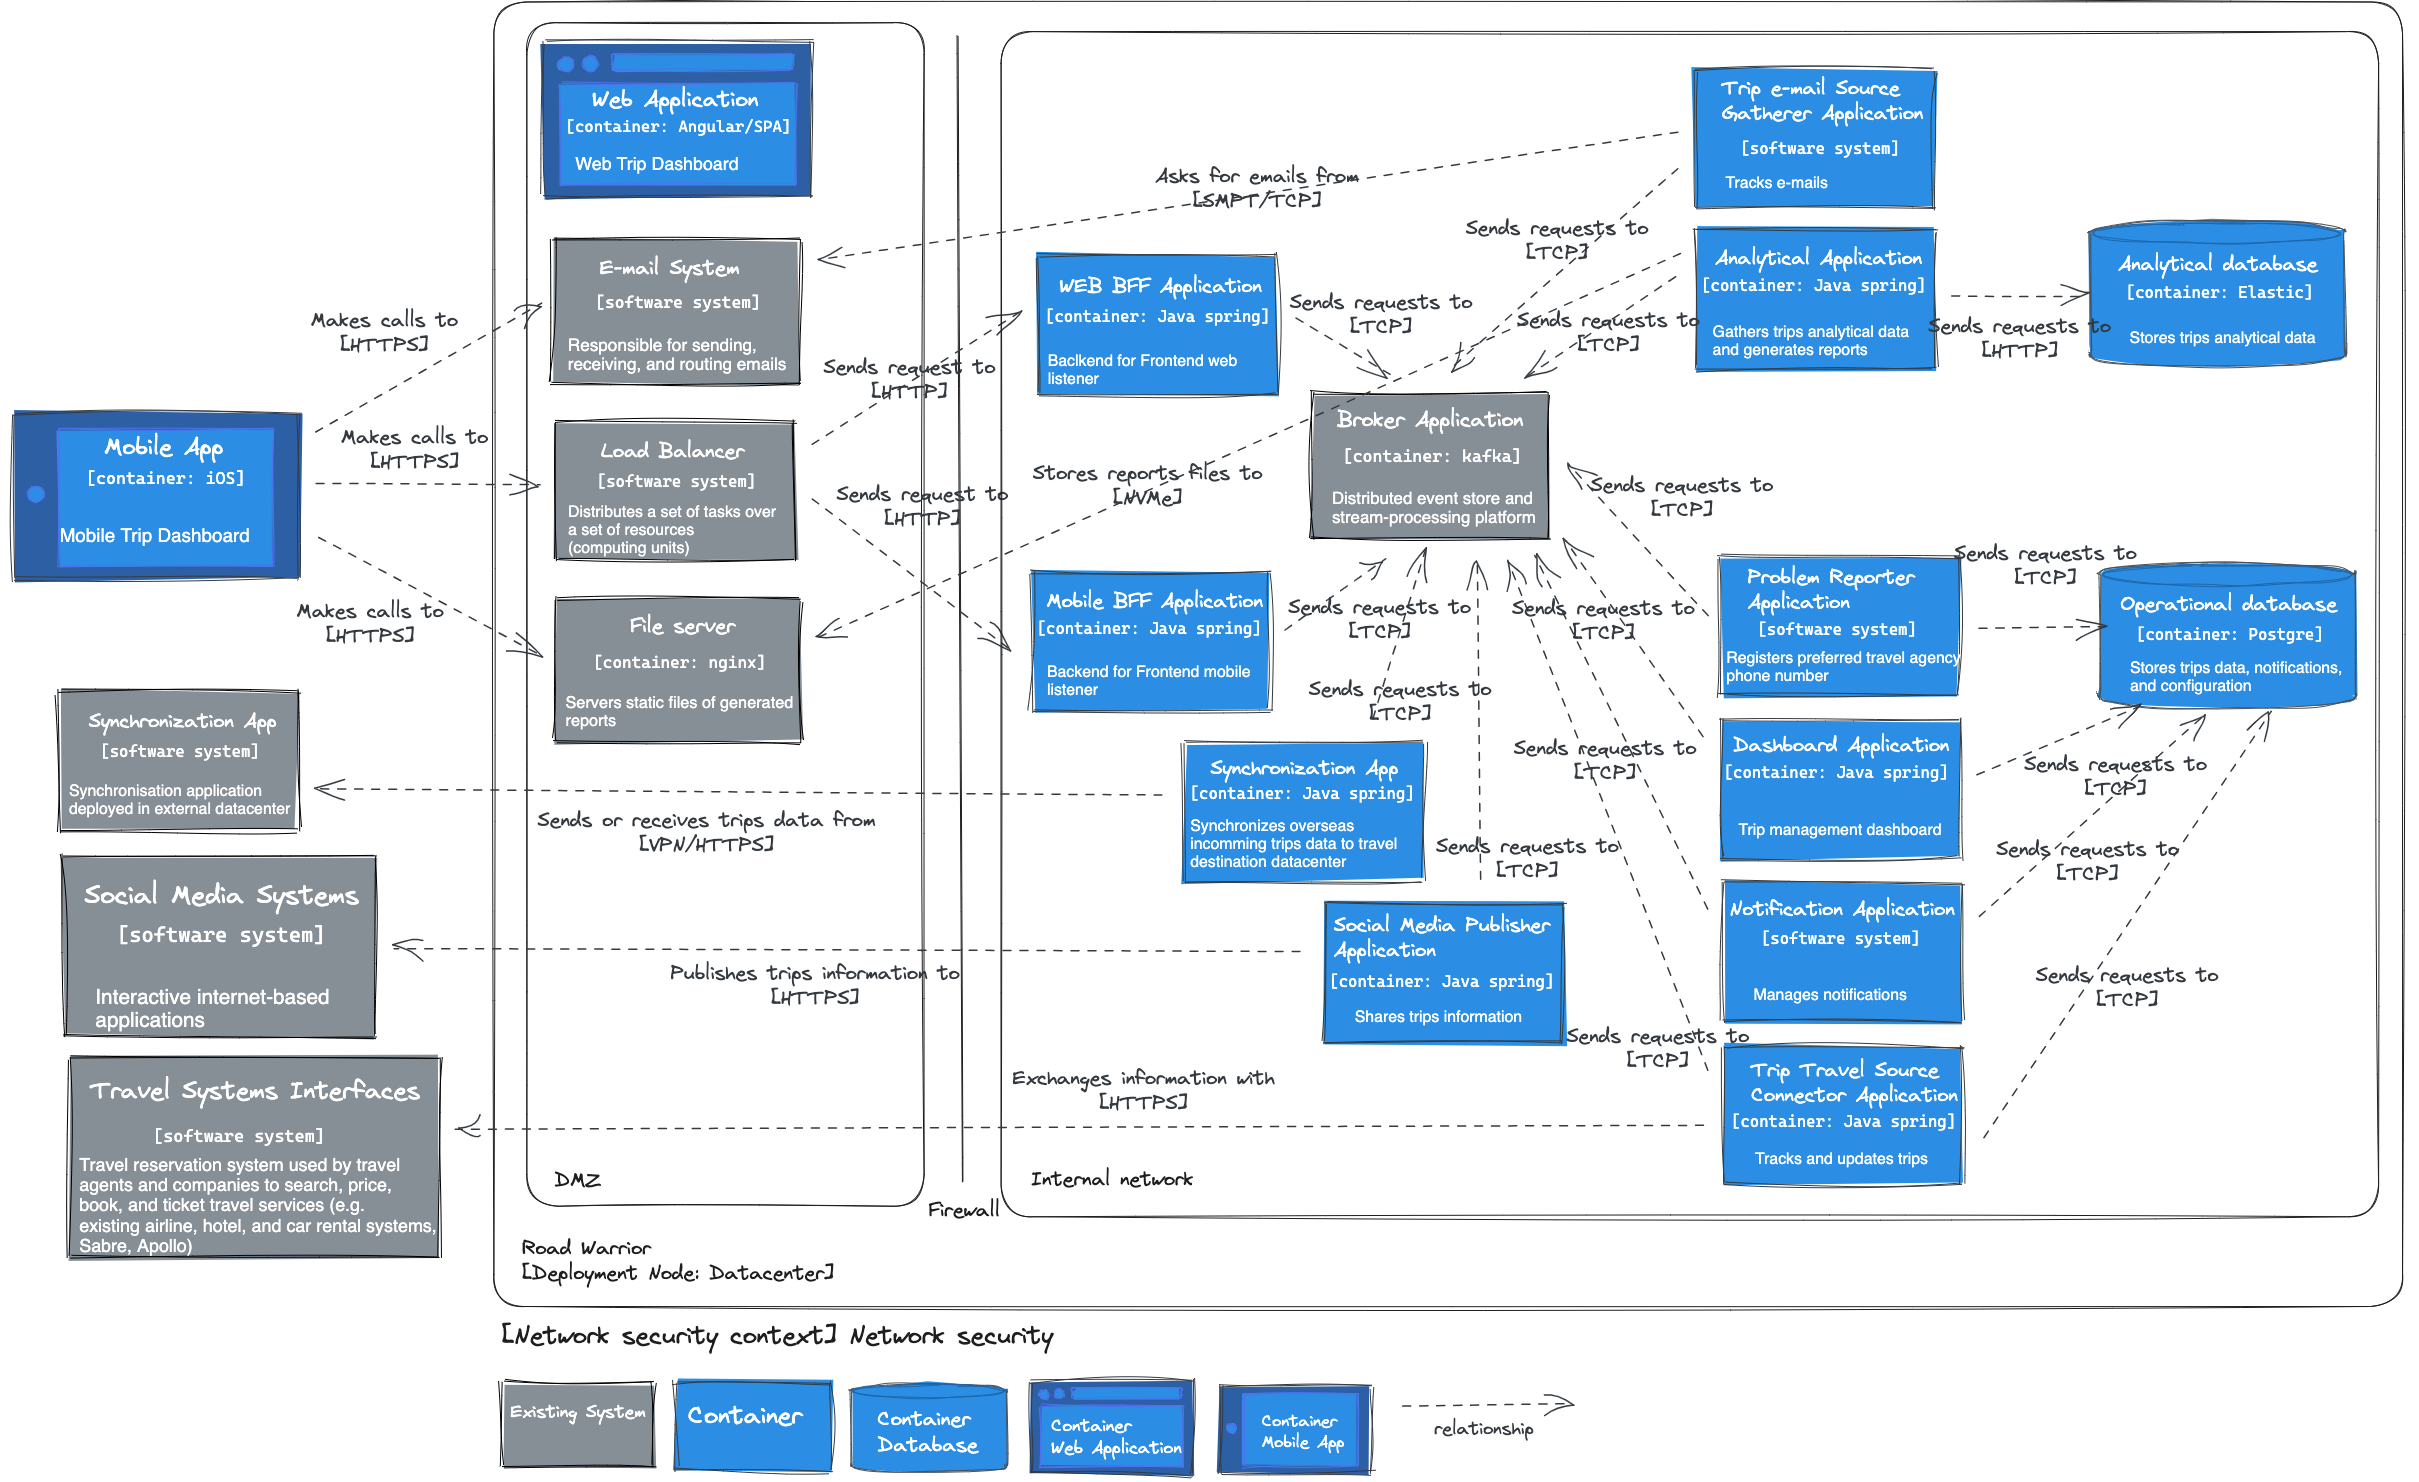
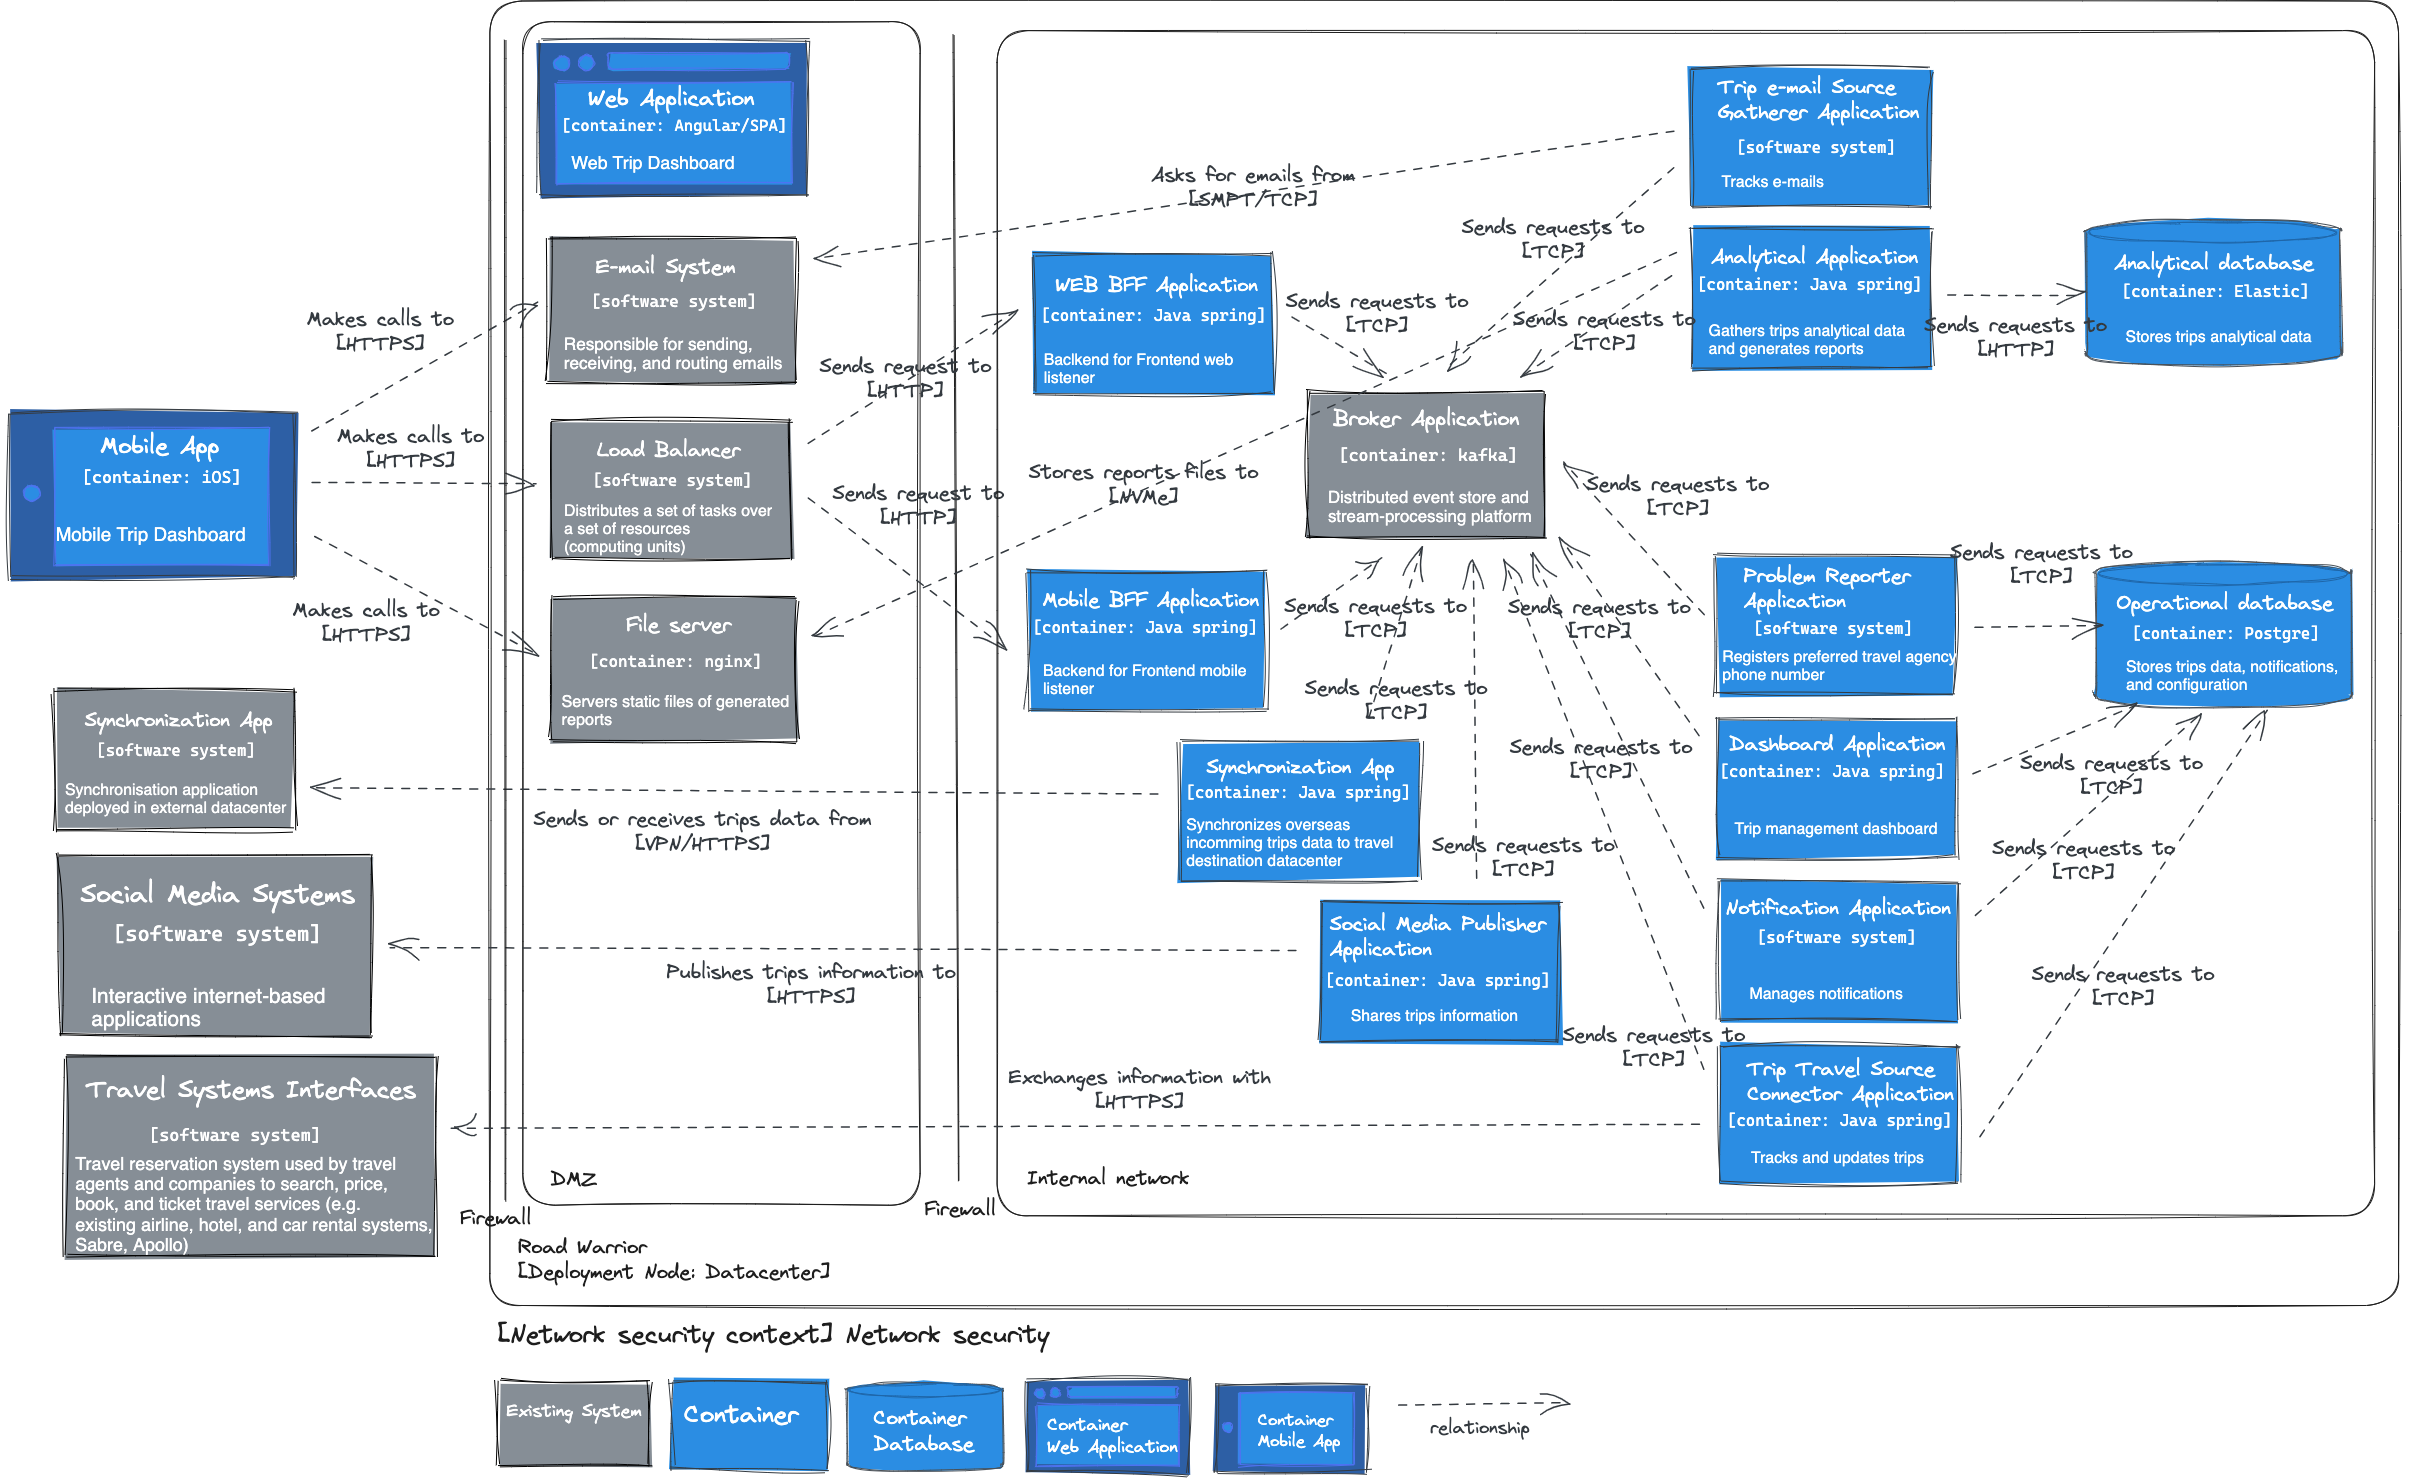
update network security context

diff --git a/current/architecture/README.md b/current/architecture/README.md
@@ -65,6 +65,8 @@ The security context diagram shows components involved in the authentication and
 
 The network security context diagram shows components involved in the multi-layer network security architecture. It is worth to noting the use of a broker introduces an additional layer of protection because the active elements are processors, not the broker itself, so a request sent from outside does not directly affect its processing. The processor is the element that initiates communication, not an external service as is the case with direct network communication.  
 
+Any traffic from the internet will go through a firewall to access the web server in the DMZ. Any traffic from the DMZ must also go through a firewall to access the internal network. This can be the same firewall with a separate interface and access control list, however, it could be two physically separate firewalls.  
+
 ![Network Secirity Context](https://github.com/ExtravaganzaTeam/KATAS-2023/blob/main/current/architecture/network_security_context.png "a title")
 
 ## Deployment Diagram
